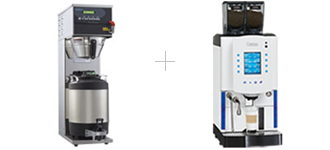
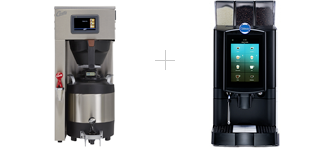
0526 change

diff --git a/html/css/conditions.css b/html/css/conditions.css
@@ -30,19 +30,37 @@
   margin-bottom: 45px;
   line-height: 1.8;
 }
-.conditions_column_img img {
+.conditions_column_img {
+  overflow: hidden;
+  position: relative;
+}
+.conditions_column_img:before {
+  position: absolute;
+  content: "";
+  background: url("../images/conditions/plus_condi.png") center 0 no-repeat;
+  width: 20px;
+  height: 20px;
+  left: 50%;
+  top: 30%;
+  margin-left: -10px;
+  z-index: 2;
+}
+.conditions_column_img p {
+  float: left;
+  width: 50%;
+}
+.conditions_column_img p a {
+  display: block;
+  text-align: center;
+}
+.conditions_column_img p img {
   width: 100%;
 }
-.conditions_column_name {
+.conditions_column_img p span {
+  display: block;
   margin-top: 20px;
   font-size: 20px;
 }
-.conditions_column_name span {
-  display: inline-block;
-  width: 50%;
-  text-align: center;
-}
-
 @media screen and (max-width: 1080px) {
 .conditions_column {
   margin: -30px 0 0 -30px;

diff --git a/html/conditions.php b/html/conditions.php
@@ -51,24 +51,30 @@
                   <div class="hlg01">
                     <h4 class="conditions_column_tit fonten">CASE 1</h4>
                     <p class="conditions_column_txt hlg02">豊富なメニューバリエーションで最高のおもてなしを</p>
-                    <p class="conditions_column_img"><img src="./images/conditions/img_conditions01.png" alt="C-22 HARMONY SOFT"></p>
-                    <p class="conditions_column_name fonten"><span>C-22</span><span>HARMONY SOFT</span></p>
+                    <div class="conditions_column_img hlg03">
+                      <p class="op"><a href="./ec/brewmatic/c22/"><img src="./images/conditions/img_condi01.jpg" alt="C-22"><span class="fonten">C-22</span></a></p>
+                      <p class="op"><a href="./ec/carimali/harmony-soft/"><img src="./images/conditions/img_condi02.jpg" alt="HARMONY SOFT"><span class="fonten">HARMONY SOFT</span></a></p>
+                    </div>
                   </div>
                 </li>
                 <li class="wow fadeIn">
                   <div class="hlg01">
                     <h4 class="conditions_column_tit fonten">CASE 2</h4>
                     <p class="conditions_column_txt hlg02">リーズナブルでハイパフォーマンスなマシン</p>
-                    <p class="conditions_column_img"><img src="./images/conditions/img_conditions02.png" alt="B3 Decanter GIGA X8c"></p>
-                    <p class="conditions_column_name fonten"><span>B3 Decanter</span><span>GIGA X8c</span></p>
+                    <div class="conditions_column_img hlg03">
+                      <p class="op"><a href="./ec/brewmatic/b3-decanter/"><img src="./images/conditions/img_condi03.jpg" alt="B3 Decanter"><span class="fonten">B3 Decanter</span></a></p>
+                      <p class="op"><a href="./ec/jura/giga-x8c-professional/"><img src="./images/conditions/img_condi04.jpg" alt="GIGA X8c"><span class="fonten">GIGA X8c</span></a></p>
+                    </div>
                   </div>
                 </li>
                 <li class="wow fadeIn">
                   <div class="hlg01">
                     <h4 class="conditions_column_tit fonten">CASE 3</h4>
                     <p class="conditions_column_txt hlg02">こだわりの一杯で上品な空間を</p>
-                    <p class="conditions_column_img"><img src="./images/conditions/img_conditions03.png" alt="CGC"></p>
-                    <p class="conditions_column_name fonten"><span>CGC</span><span>Cento50 G1</span></p>
+                    <div class="conditions_column_img hlg03">
+                      <p class="op"><a href="./ec/curtis/seraphim/"><img src="./images/conditions/img_condi05.jpg" alt="Seraphim"><span class="fonten">Seraphim</span></a></p>
+                      <p class="op"><a href="./ec/sanremo/cafe-racer/"><img src="./images/conditions/img_condi06.jpg" alt="Café Racer White & Wood"><span class="fonten">Café Racer White &amp; Wood</span></a></p>
+                    </div>
                   </div>
                 </li>
               </ul>
@@ -81,24 +87,30 @@
                   <div class="hlg01">
                     <h4 class="conditions_column_tit fonten">CASE 1</h4>
                     <p class="conditions_column_txt hlg02">最新のテクノロジーでコーヒーを美味しく、楽しく提供できるスタイル</p>
-                    <p class="conditions_column_img"><img src="./images/conditions/img_conditions04.png" alt="C-22 Thermo Brewer OPTIMA"></p>
-                    <p class="conditions_column_name fonten"><span>C-22 Thermo Brewer</span><span>OPTIMA</span></p>
+                    <div class="conditions_column_img hlg03">
+                      <p class="op"><a href="./ec/curtis/g4-gemini-single-1-5g-brewer/"><img src="./images/conditions/img_condi07.jpg" alt="G4 Thermo Pro Single 1G Brewer"><span class="fonten">G4 Thermo Pro Single 1G Brewer</span></a></p>
+                      <p class="op"><a href="./ec/carimali/harmony-ultra/"><img src="./images/conditions/img_condi08.jpg" alt="HARMONY ULTRA"><span class="fonten">HARMONY ULTRA</span></a></p>
+                    </div>
                   </div>
                 </li>
                 <li class="wow fadeIn">
                   <div class="hlg01">
                     <h4 class="conditions_column_tit fonten">CASE 2</h4>
                     <p class="conditions_column_txt hlg02">省スペースで幅広いメニュー提供ができるスタイル</p>
-                    <p class="conditions_column_img"><img src="./images/conditions/img_conditions05.png" alt="B3 Thermo Brewer HARMONY SOFT"></p>
-                    <p class="conditions_column_name fonten"><span>B3 Thermo Brewer</span><span>HARMONY SOFT</span></p>
+                    <div class="conditions_column_img hlg03">
+                      <p class="op"><a href="./ec/brewmatic/c-22-thermo-brewer/"><img src="./images/conditions/img_condi09.jpg" alt="C-22 Thermo Brewer"><span class="fonten">C-22 Thermo Brewer</span></a></p>
+                      <p class="op"><a href="./ec/rheavendors/la-rhea-grande2-premium/"><img src="./images/conditions/img_condi10.jpg" alt="la Rhea GRANDE2 Premium"><span class="fonten">la Rhea GRANDE2 Premium</span></a></p>
+                    </div>
                   </div>
                 </li>
                 <li class="wow fadeIn">
                   <div class="hlg01">
                     <h4 class="conditions_column_tit fonten">CASE 3</h4>
                     <p class="conditions_column_txt hlg02">用途に合わせて移設ができ、求めるスタンダードの一歩上をいく機能を搭載したスタイル</p>
-                    <p class="conditions_column_img"><img src="./images/conditions/img_conditions06.png" alt="EZ Thermo Brewer GIGA X8c"></p>
-                    <p class="conditions_column_name fonten"><span>EZ Thermo Brewer</span><span>GIGA X8c</span></p>
+                    <div class="conditions_column_img hlg03">
+                      <p class="op"><a href="./ec/brewmatic/ez-thermo-brewer/"><img src="./images/conditions/img_condi11.jpg" alt="EZ Thermo Brewer"><span class="fonten">EZ Thermo Brewer</span></a></p>
+                      <p class="op"><a href="./ec/jura/x8/"><img src="./images/conditions/img_condi12.jpg" alt="X8"><span class="fonten">X8</span></a></p>
+                    </div>
                   </div>
                 </li>
               </ul>

diff --git a/html/showroom.php b/html/showroom.php
@@ -67,6 +67,9 @@
                     <div class="gallery_img_item" data-src="./images/showroom/img_showroom04_l.jpg">
                       <img src="./images/showroom/img_showroom04.jpg" alt="写真">
                     </div>
+                    <div class="gallery_img_item" data-src="./images/showroom/img_showroom05_l.jpg">
+                      <img src="./images/showroom/img_showroom05.jpg" alt="写真">
+                    </div>
                   </div>
                 </div>
                 <!-- /showroom_gallery -->
